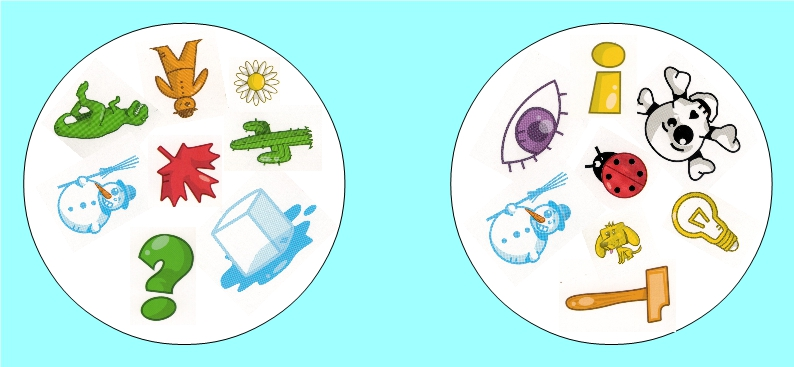
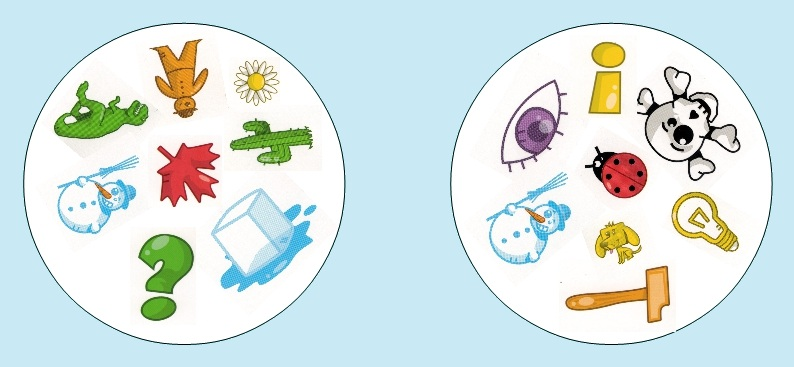
add 8,9 fields

diff --git a/card_gen.js b/card_gen.js
@@ -77,12 +77,18 @@ const miniCenters = [[], [], [],  // padding
 
 function inputLvl() {
     nConst = parseInt(document.getElementById("level").value) - 1;
-    //nConst = 11;
+    //nConst = lvl - 1 ;
     if (nConst == 4) {
-        F = new FieldOfFour(nConst);
+        F = new FieldOfFour();
     }
-    else if (nConst == 6) {
-        document.getElementById("testprint").innerHTML = "Level 7 (order 6) Dobble does not exist. 6 is not a prime number or a power of a prime number."
+    else if (nConst == 8) {
+        F = new FieldOfEight();
+    }
+    else if (nConst == 9) {
+        F = new FieldOfNine();
+    }
+    else if (nConst == 6 || nConst == 10) {
+        document.getElementById("testprint").innerHTML = "Level " + (nConst + 1) + " (order " + nConst + ") Dobble does not exist. " + nConst + " is not a prime number or a power of a prime number."
         clearCanvas();
         return;
     }
@@ -98,6 +104,7 @@ function loadGeom() {
     document.getElementById("testprint").innerHTML = "Level " + (nConst + 1) + " (order " + (nConst) + ") cards: <br><br>";
     for (let i = 0; i < noOfPoints; i++) {
         document.getElementById("testprint").innerHTML += "Card " + cards[i][0] + ": - " + cards[i][1] + "<br>";
+        //document.getElementById("testprint").innerHTML += cards[i][1] + "<br>";
     }
     document.getElementById("testprint").innerHTML += "<br>Number of cards/symbol: " + noOfPoints;
     clearCanvas();
@@ -115,9 +122,9 @@ function makeCards(allCards) {
     const cardsPerRow = Math.ceil(Math.sqrt(noOfPoints));
     const rows = Math.ceil(noOfPoints / cardsPerRow);
 
-    canvas.setAttribute("width", (cardCanvasSize *cardsPerRow) + 20); // set canvas width to fit all cards with some padding
+    canvas.setAttribute("width", (cardCanvasSize * cardsPerRow) + 20); // set canvas width to fit all cards with some padding
     canvas.setAttribute("height", (cardCanvasSize * rows) + 20); // set canvas height with some padding
-    canvas._grid = {cardsPerRow, rows};
+    canvas._grid = { cardsPerRow, rows };
 
     //display cards with allCards by geometry function
     for (let i = 0; i < allCards.length; i++) {
@@ -149,7 +156,7 @@ function writeSymbol(lev, cardNumber, slot, sym, col, row) {
     const offsetY = (row - 1) * cardCanvasSize;
     const X = miniCenters[lev][slot][0] + offsetX;
     const Y = miniCenters[lev][slot][1] + offsetY;
-    if (lev == 12){
+    if (lev == 12) {
         fontHeight = 18;
     }
     ctx.fillStyle = "#f5eefaff";
@@ -161,7 +168,7 @@ function writeSymbol(lev, cardNumber, slot, sym, col, row) {
     ctx.fillText(sym, X, Y);
 }
 
-function clearCanvas(){
+function clearCanvas() {
     const c = document.getElementById("canvas");
     const ctx = c.getContext("2d");
     ctx.clearRect(0, 0, c.width, c.height);
@@ -199,6 +206,49 @@ function FieldOfFour() {
     this.multiplication = [[0, 0, 0, 0], [0, 1, 2, 3], [0, 2, 3, 1], [0, 3, 1, 2]];
     this.mult = function (x, y) {
         return this.multiplication[x][y];
+    }
+}
+
+function FieldOfEight() {
+    this.noOfElems = 8;
+    //elems = triple(n div 4, n div 2 mod 2, n mod 2)
+    this.elems = [];
+    for (let i = 0; i < this.noOfElems; i++) {
+        this.elems.push([Math.floor(i / 4), Math.floor(i / 2) % 2, i % 2]);
+    }
+    //add: ((a + d), (b + e), (c + f)) XOR
+    this.add = function (x, y) {
+        return ((this.elems[x][0] ^ this.elems[y][0]), (this.elems[x][1] ^ this.elems[y][1]), (this.elems[x][2] ^ this.elems[y][2]))
+    }
+    //multiply: ((af + be + cd + ad), (ae + ce + bd + bf + ad), (ae + bd + cf)) AND
+    this.mult = function (x, y){
+        return (
+            ((this.elems[x][0] * this.elems[y][2]) & (this.elems[x][1] * this.elems[y][1]) & (this.elems[x][2] * this.elems[y][0]) & (this.elems[x][0] * this.elems[y][0])),
+            ((this.elems[x][0] * this.elems[y][1]) & (this.elems[x][2] * this.elems[y][1]) & (this.elems[x][1] * this.elems[y][0]) & (this.elems[x][1] * this.elems[y][2]) & (this.elems[x][0] * this.elems[y][1+0])),
+            ((this.elems[x][0] * this.elems[y][1]) & (this.elems[x][1] * this.elems[y][0]) & (this.elems[x][2] * this.elems[y][2]))
+            )
+    }
+}
+
+function FieldOfNine() {
+    this.noOfElems = 9;
+    //elems = tuple(n div 3, n mod 3)
+    this.elems = [];
+    for (let i = 0; i < this.noOfElems; i++) {
+        this.elems.push([Math.floor(i / 3), i % 3]);
+    }
+    //add: ((a + c), (b + d))
+    this.add = function (x, y) {
+        return ((this.elems[x][0] + this.elems[y][0]) % 3, (this.elems[x][1] + this.elems[y][1]) % 3);
+    }
+    //multiply: ((ad + bc), (bd - ac))
+    this.mult = function (x, y) {
+        return (
+            ((((this.elems[x][0] * this.elems[y][1]) % 3)
+                + ((this.elems[x][1] * this.elems[y][0]) % 3)) % 3),
+            ((((this.elems[x][1] * this.elems[y][1]) % 3)
+                - ((this.elems[x][0] * this.elems[y][0]) % 3)) % 3)
+        )
     }
 }
 /*
@@ -424,3 +474,5 @@ function saveCanvas() {
     link.href = canvas.toDataURL("image/jpeg", 1.0);
     link.click();
 }
+
+//export{inputLvl,geometry, characters, miniCenters}

diff --git a/card_generator.html b/card_generator.html
@@ -38,7 +38,7 @@
     <p id="testboxGeom"></p>
     <button id="testbtnGeom" onclick="testFieldBtnGeom()">Complete cards with symbols</button>-->
     <p>This page generates card sets of different levels using mathematics and JavaScript. Choose a p+1 (prime number +
-        1) number (or 5) and submit it to see the complete card set of that level with their symbols.</p>
+        1) number, or p<sup>2</sup> + 1 (power of a prime number + 1) and submit it to see the complete card set of that level with their symbols.</p>
     <select id="level" aria-placeholder="Choose Level">
         <option value="">Choose Level</option>
         <option value="3">3</option>
@@ -47,6 +47,9 @@
         <option value="6">6</option>
         <option value="7">7</option>
         <option value="8">8</option>
+        <option value="9">9</option>
+        <option value="10">10</option>
+        <option value="11">11</option>
         <option value="12">12</option>
     </select>
     <button onclick="inputLvl()">Submit</button>

diff --git a/test.html b/test.html
@@ -1,0 +1,8 @@
+<!DOCTYPE html>
+<html>
+    <body>
+        <h1>TEST</h1>
+        <button id="go" onclick="test()">go</button>
+        <canvas id="canvas" width="500" height="500"></canvas>
+    </body>
+</html>

diff --git a/test.js b/test.js
@@ -1,0 +1,5 @@
+import { inputLvl } from "./card_gen";
+
+function test() {
+    inputLvl();
+}
